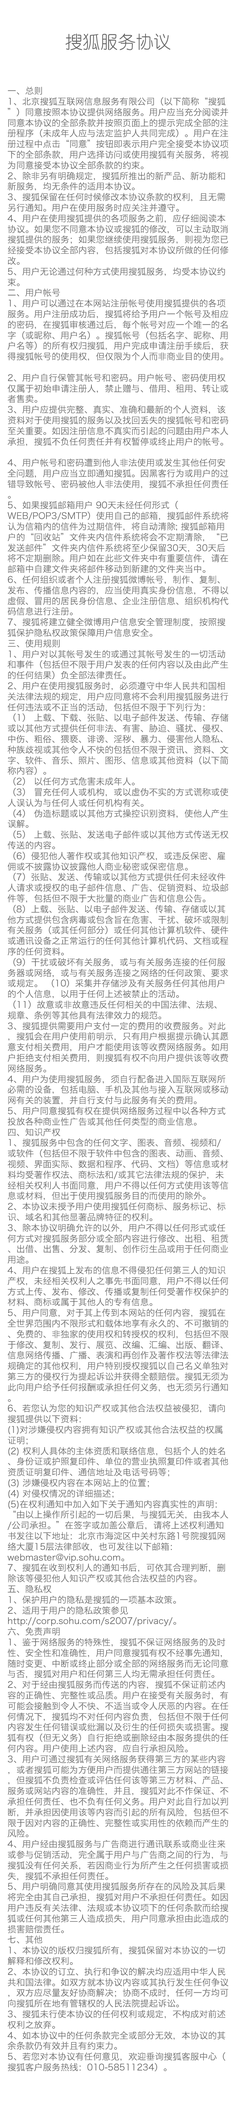
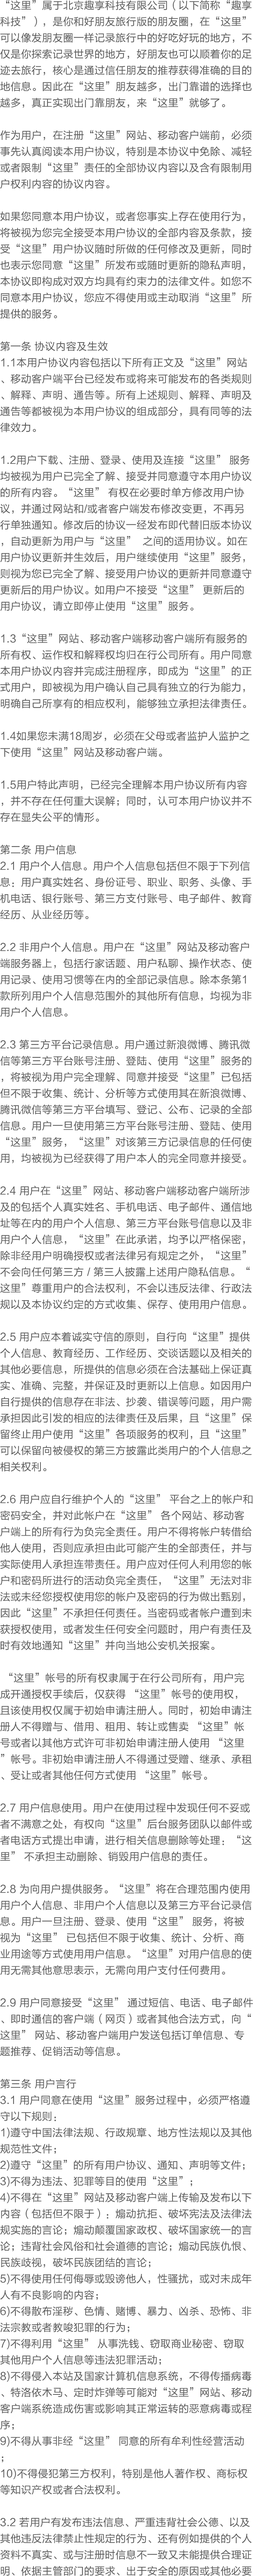
完成协议页面

diff --git a/HRER/LoginController/HRRegisterDealViewController.m b/HRER/LoginController/HRRegisterDealViewController.m
@@ -9,24 +9,58 @@
 #import "HRRegisterDealViewController.h"
 
 @implementation HRRegisterDealViewController
-- (void)viewDidLoad
-{
-    [super viewDidLoad];
-    self.view.backgroundColor = [UIColor whiteColor];
-    
-    UIScrollView * scrollView = [[UIScrollView alloc] initWithFrame:self.view.bounds];
-    UIImageView * imageview = [[UIImageView alloc] initWithFrame:CGRectMake(0, 0, 320, 5700/2.f)];
-    imageview.image = [UIImage imageNamed:@"serviceitem.png"];
-    imageview.backgroundColor = [UIColor whiteColor];
-    [scrollView addSubview:imageview];
-    [scrollView setContentSize:imageview.bounds.size];
-    [self.view addSubview:scrollView];
-}
 
 - (void)viewWillAppear:(BOOL)animated
 {
     [super viewWillAppear:animated];
-    self.title = @"这里协议";
+    [self.navigationController setNavigationBarHidden:YES];
+}
+
+- (void)viewWillDisappear:(BOOL)animated
+{
+    [super viewWillDisappear:animated];
+    [self.navigationController setNavigationBarHidden:NO];
+}
+
+- (void)viewDidLoad
+{
+    [super viewDidLoad];
+    
+    
+    self.view.backgroundColor = [UIColor whiteColor];
+    
+    
+    UIImageView * barView = [[UIImageView alloc] initWithFrame:CGRectMake(0, 0, self.view.width, 64)];
+    [barView setUserInteractionEnabled:YES];
+    barView.image = [UIImage imageNamed:@"nav_bg"];
+    [self.view addSubview:barView];
+    
+    UILabel * label = [[UILabel alloc] initWithFrame:CGRectMake(0, 20, self.view.width, 44)];
+    label.text = @"这里协议";
+    
+    label.textAlignment = NSTextAlignmentCenter;
+    label.textColor = [UIColor whiteColor];
+    [barView addSubview:label];
+    
+    UIButton * backButton = [[UIButton alloc] initWithFrame:CGRectMake(17, 26, 33, 33)];
+    [backButton setImage:[UIImage imageNamed:@"list_back"] forState:UIControlStateNormal];
+    [backButton addTarget:self action:@selector(buttonDidClick:) forControlEvents:UIControlEventTouchUpInside];
+    backButton.tag = 0;
+    [self.view addSubview:backButton];
+
+    
+    UIScrollView * scrollView = [[UIScrollView alloc] initWithFrame:CGRectMake(0, 64, self.view.width, self.view.height - 64)];
+    UIImageView * imageview = [[UIImageView alloc] initWithFrame:CGRectMake(10, 10, 300, 6980/2.f + 10)];
+    imageview.image = [UIImage imageNamed:@"serviceitem.png"];
+    imageview.backgroundColor = [UIColor whiteColor];
+    [scrollView addSubview:imageview];
+    [scrollView setContentSize:CGSizeMake(imageview.bounds.size.width, imageview.bounds.size.height + 20)];
+    [self.view addSubview:scrollView];
+}
+
+- (void)buttonDidClick:(id)sender
+{
+    [self.navigationController popViewControllerAnimated:YES];
 }
 
 @end
